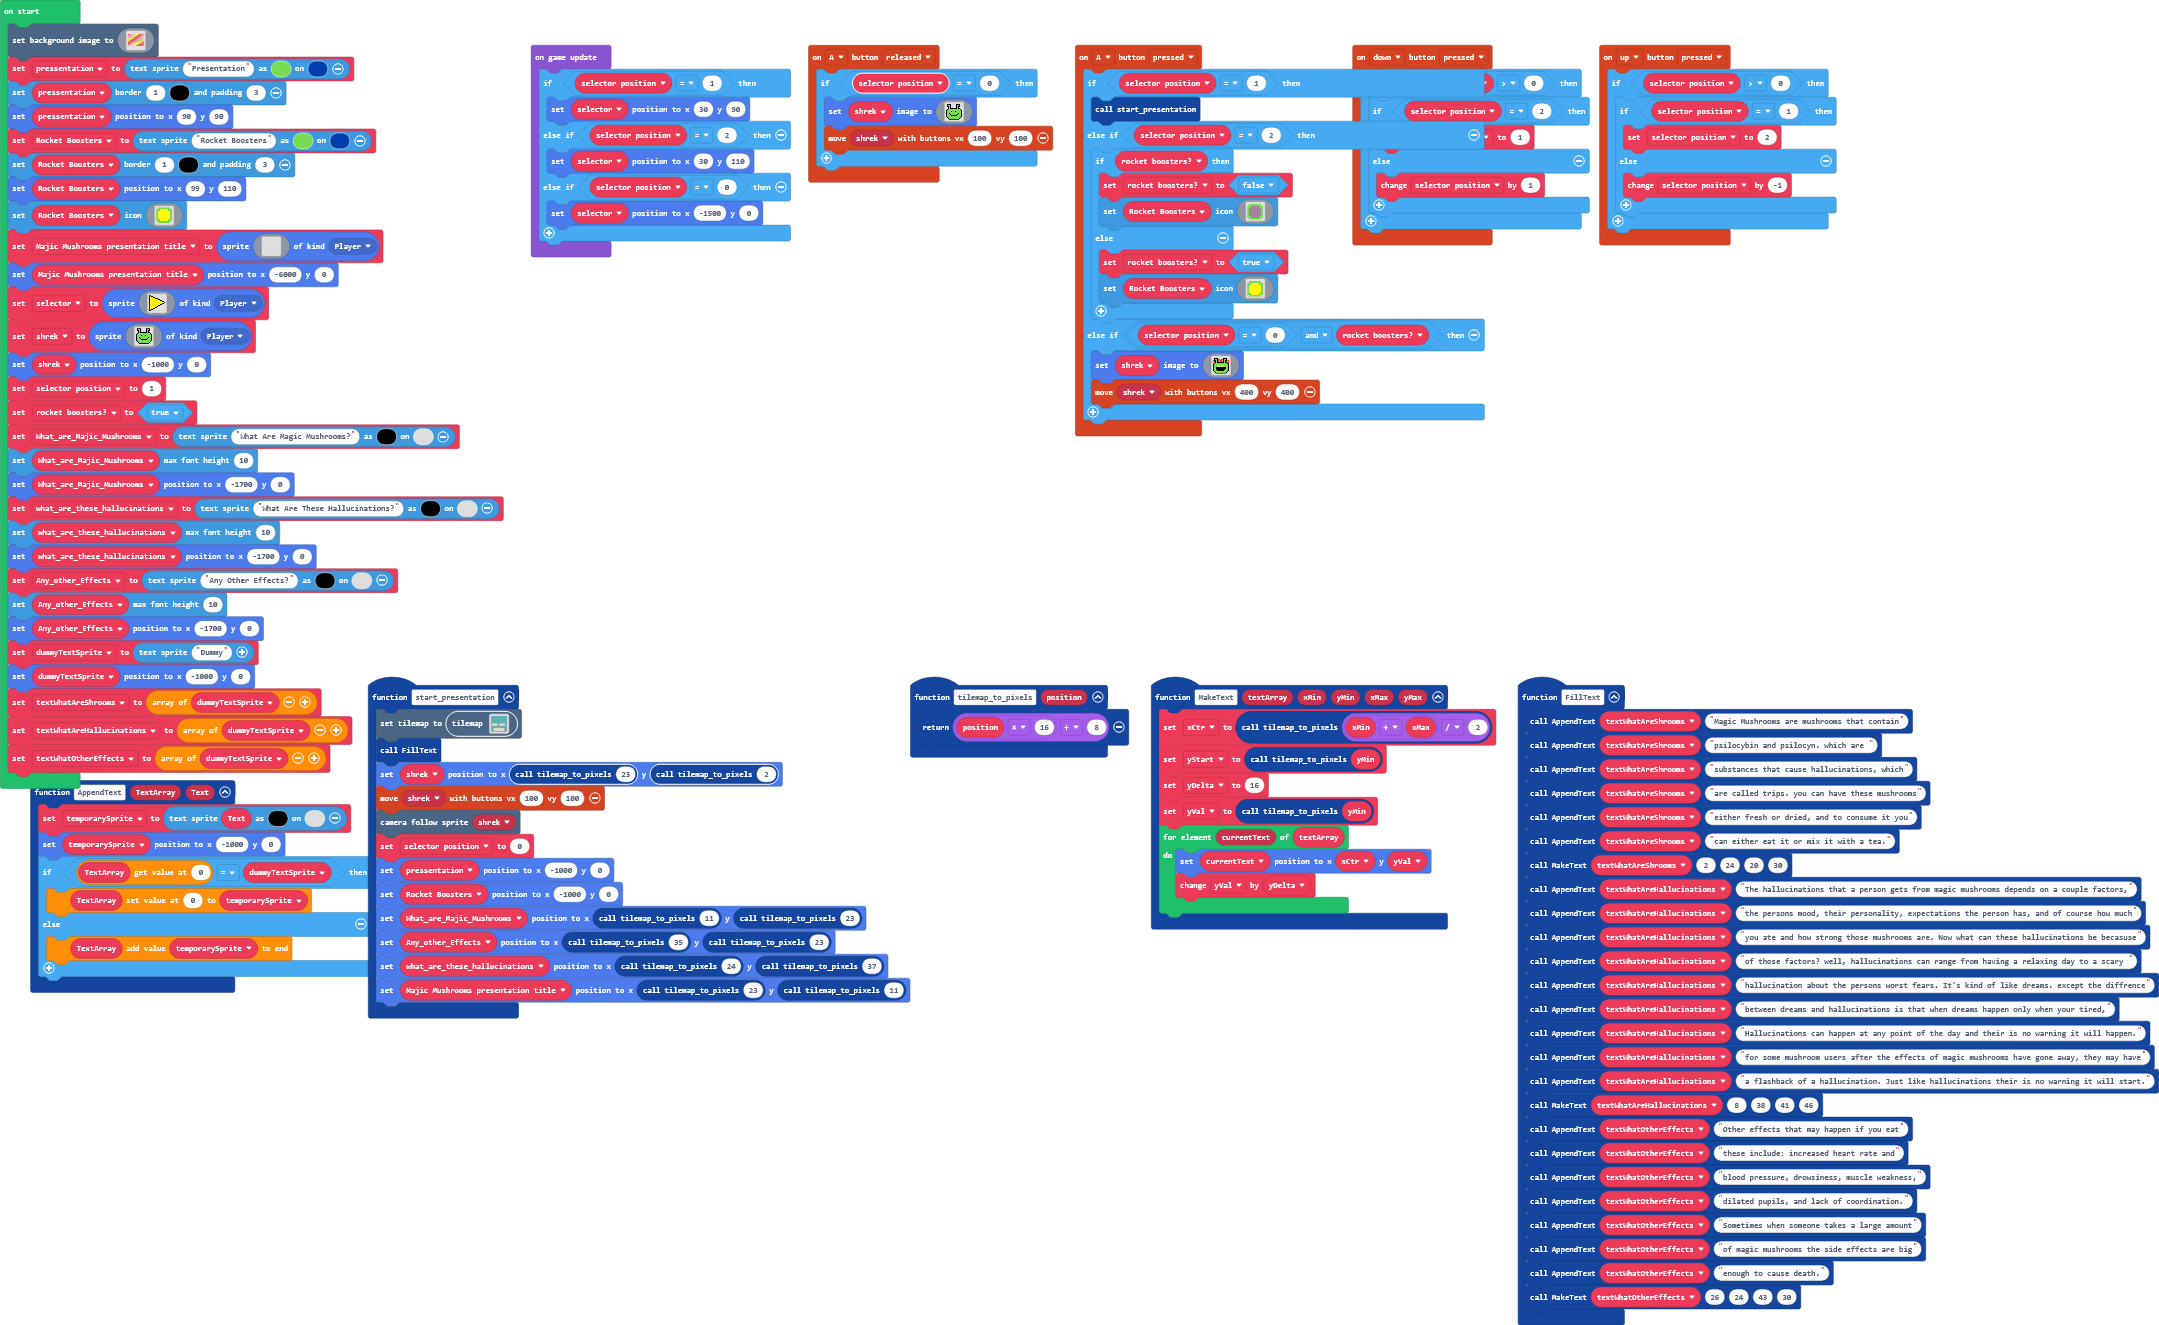
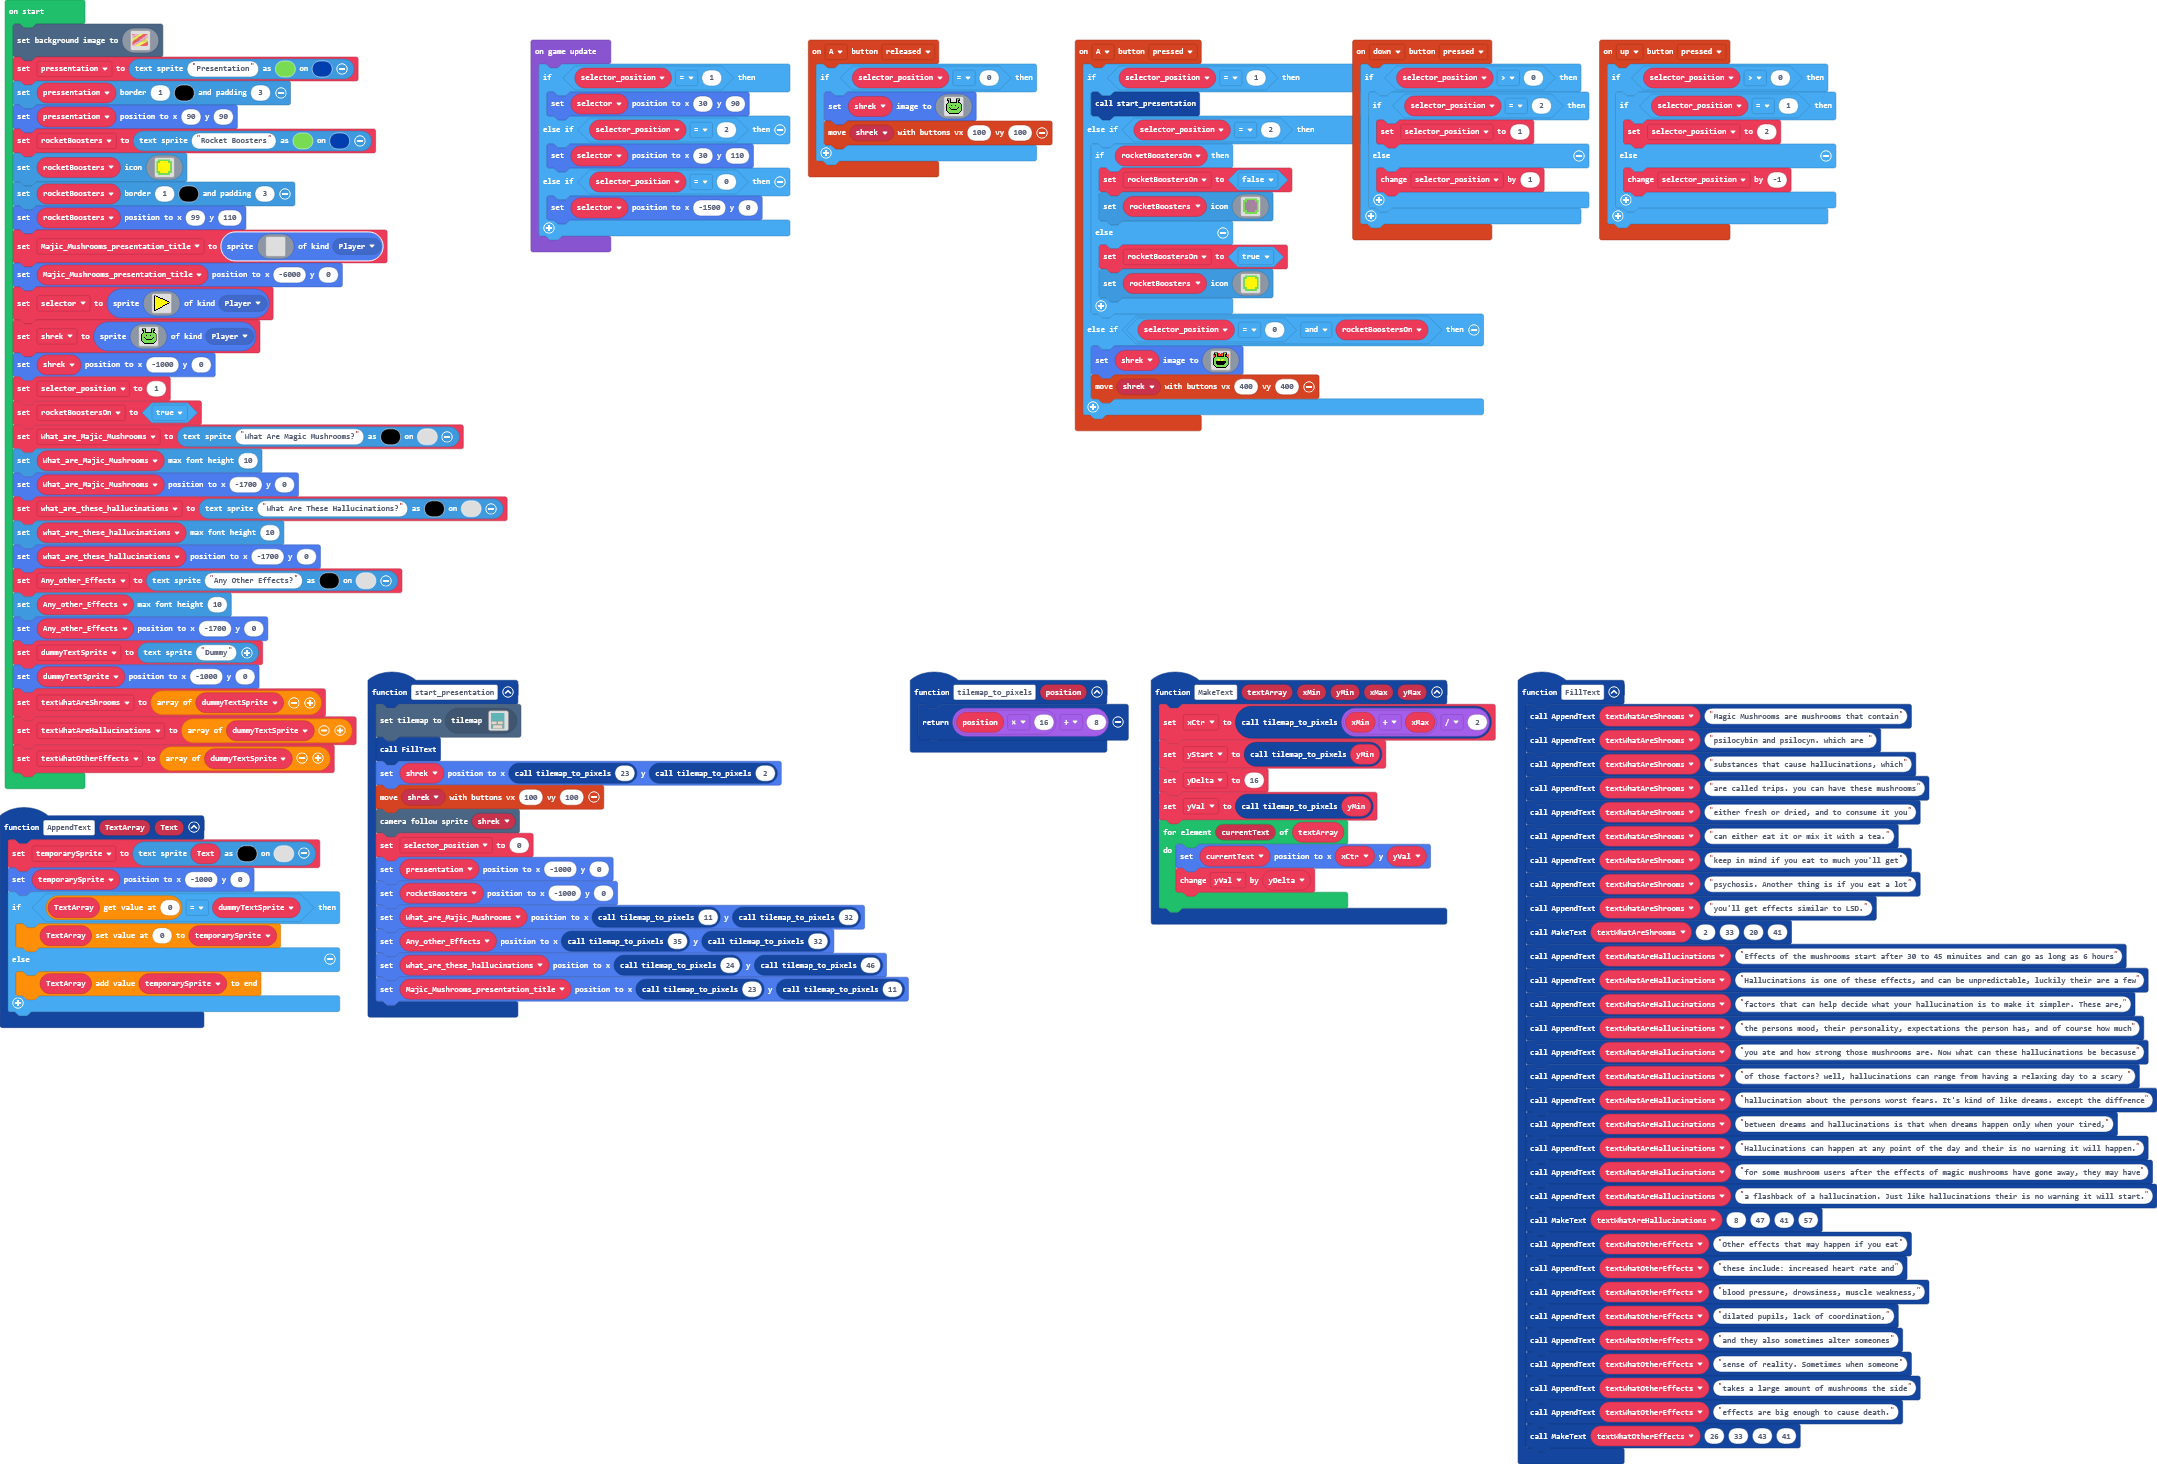
Title is too high, not sure why, ENJOY!!!

diff --git a/tilemap.g.ts b/tilemap.g.ts
@@ -90,8 +90,37 @@ namespace myTiles {
 . . . . . . . . . . . . . . . . 
 . . . . . . . . . . . . . . . . 
 `, [myTiles.transparency16], TileScale.Sixteen);
+            case "level5":
+            case "level5":return tiles.createTilemap(hex`1000100000000000000000000000000000000000000000000000000000000000000000000000000000000000000000000000000000000000000000000000000000000000000000000000000000000000000000000000000000000000000000000000000000000000000000000000000000000000000000000000000000000000000000000000000000000000000000000000000000000000000000000000000000000000000000000000000000000000000000000000000000000000000000000000000000000000000000000000000000000000000000000000000000000000000000000000000000000000000000000000000000000000000000000000000000000000`, img`
+. . . . . . . . . . . . . . . . 
+. . . . . . . . . . . . . . . . 
+. . . . . . . . . . . . . . . . 
+. . . . . . . . . . . . . . . . 
+. . . . . . . . . . . . . . . . 
+. . . . . . . . . . . . . . . . 
+. . . . . . . . . . . . . . . . 
+. . . . . . . . . . . . . . . . 
+. . . . . . . . . . . . . . . . 
+. . . . . . . . . . . . . . . . 
+. . . . . . . . . . . . . . . . 
+. . . . . . . . . . . . . . . . 
+. . . . . . . . . . . . . . . . 
+. . . . . . . . . . . . . . . . 
+. . . . . . . . . . . . . . . . 
+. . . . . . . . . . . . . . . . 
+`, [myTiles.transparency16], TileScale.Sixteen);
             case "level2":
[2 lines of base64/hex data omitted]
+..................................................
+..................................................
+..................................................
+..................................................
+..................................................
+..................................................
+..................................................
+..................................................
+..................................................
+..................................................
 ..................................................
 ..................................................
 ..................................................
@@ -143,25 +172,6 @@ namespace myTiles {
 ..................................................
 ..................................................
 `, [myTiles.transparency16,myTiles.tile2,myTiles.tile3,myTiles.tile4,myTiles.tile5,myTiles.tile6,myTiles.tile7,myTiles.tile8,myTiles.tile9,myTiles.tile10,myTiles.tile11,myTiles.tile13,myTiles.tile14,myTiles.tile15,myTiles.tile16], TileScale.Sixteen);
-            case "level5":
-            case "level5":return tiles.createTilemap(hex`1000100000000000000000000000000000000000000000000000000000000000000000000000000000000000000000000000000000000000000000000000000000000000000000000000000000000000000000000000000000000000000000000000000000000000000000000000000000000000000000000000000000000000000000000000000000000000000000000000000000000000000000000000000000000000000000000000000000000000000000000000000000000000000000000000000000000000000000000000000000000000000000000000000000000000000000000000000000000000000000000000000000000000000000000000000000000000`, img`
-. . . . . . . . . . . . . . . . 
-. . . . . . . . . . . . . . . . 
-. . . . . . . . . . . . . . . . 
-. . . . . . . . . . . . . . . . 
-. . . . . . . . . . . . . . . . 
-. . . . . . . . . . . . . . . . 
-. . . . . . . . . . . . . . . . 
-. . . . . . . . . . . . . . . . 
-. . . . . . . . . . . . . . . . 
-. . . . . . . . . . . . . . . . 
-. . . . . . . . . . . . . . . . 
-. . . . . . . . . . . . . . . . 
-. . . . . . . . . . . . . . . . 
-. . . . . . . . . . . . . . . . 
-. . . . . . . . . . . . . . . . 
-. . . . . . . . . . . . . . . . 
-`, [myTiles.transparency16], TileScale.Sixteen);
         }
         return null;
     })

diff --git a/main.ts b/main.ts
@@ -11,9 +11,9 @@ controller.A.onEvent(ControllerButtonEvent.Pressed, function () {
     if (selector_position == 1) {
         start_presentation()
     } else if (selector_position == 2) {
-        if (rocket_boosters) {
-            rocket_boosters = false
-            Rocket_Boosters.setIcon(img`
+        if (rocketBoostersOn) {
+            rocketBoostersOn = false
+            rocketBoosters.setIcon(img`
                 . 7 7 7 7 7 7 . 
                 7 7 b b b b 7 7 
                 7 b b b b b b 7 
@@ -24,8 +24,8 @@ controller.A.onEvent(ControllerButtonEvent.Pressed, function () {
                 . 7 7 7 7 7 7 . 
                 `)
         } else {
-            rocket_boosters = true
-            Rocket_Boosters.setIcon(img`
+            rocketBoostersOn = true
+            rocketBoosters.setIcon(img`
                 . 7 7 7 7 7 7 . 
                 7 7 5 5 5 5 7 7 
                 7 5 5 5 5 5 5 7 
@@ -36,7 +36,7 @@ controller.A.onEvent(ControllerButtonEvent.Pressed, function () {
                 . 7 7 7 7 7 7 . 
                 `)
         }
-    } else if (selector_position == 0 && rocket_boosters) {
+    } else if (selector_position == 0 && rocketBoostersOn) {
         shrek.setImage(img`
             . f f f f . . . . . f f f f . . 
             . f 7 7 f 2 2 . 2 2 f 7 7 f . . 
@@ -66,10 +66,10 @@ function start_presentation () {
     scene.cameraFollowSprite(shrek)
     selector_position = 0
     pressentation.setPosition(-1000, 0)
-    Rocket_Boosters.setPosition(-1000, 0)
-    What_are_Majic_Mushrooms.setPosition(tilemap_to_pixels(11), tilemap_to_pixels(23))
-    Any_other_Effects.setPosition(tilemap_to_pixels(35), tilemap_to_pixels(23))
-    what_are_these_hallucinations.setPosition(tilemap_to_pixels(24), tilemap_to_pixels(37))
+    rocketBoosters.setPosition(-1000, 0)
+    What_are_Majic_Mushrooms.setPosition(tilemap_to_pixels(11), tilemap_to_pixels(32))
+    Any_other_Effects.setPosition(tilemap_to_pixels(35), tilemap_to_pixels(32))
+    what_are_these_hallucinations.setPosition(tilemap_to_pixels(24), tilemap_to_pixels(46))
     Majic_Mushrooms_presentation_title.setPosition(tilemap_to_pixels(23), tilemap_to_pixels(11))
 }
 function AppendText (TextArray: TextSprite[], Text: string) {
@@ -88,8 +88,13 @@ function FillText () {
     AppendText(textWhatAreShrooms, "are called trips. you can have these mushrooms")
     AppendText(textWhatAreShrooms, "either fresh or dried, and to consume it you")
     AppendText(textWhatAreShrooms, "can either eat it or mix it with a tea.")
-    MakeText(textWhatAreShrooms, 2, 24, 20, 30)
-    AppendText(textWhatAreHallucinations, "The hallucinations that a person gets from magic mushrooms depends on a couple factors,")
+    AppendText(textWhatAreShrooms, "keep in mind if you eat to much you'll get")
+    AppendText(textWhatAreShrooms, "psychosis. Another thing is if you eat a lot")
+    AppendText(textWhatAreShrooms, "you'll get effects similar to LSD.")
+    MakeText(textWhatAreShrooms, 2, 33, 20, 41)
+    AppendText(textWhatAreHallucinations, "Effects of the mushrooms start after 30 to 45 minuites and can go as long as 6 hours")
+    AppendText(textWhatAreHallucinations, "Hallucinations is one of these effects, and can be unpredictable, luckily their are a few")
+    AppendText(textWhatAreHallucinations, "factors that can help decide what your hallucination is to make it simpler. These are,")
     AppendText(textWhatAreHallucinations, "the persons mood, their personality, expectations the person has, and of course how much")
     AppendText(textWhatAreHallucinations, "you ate and how strong those mushrooms are. Now what can these hallucinations be becasuse")
     AppendText(textWhatAreHallucinations, "of those factors? well, hallucinations can range from having a relaxing day to a scary ")
@@ -98,15 +103,16 @@ function FillText () {
     AppendText(textWhatAreHallucinations, "Hallucinations can happen at any point of the day and their is no warning it will happen.")
     AppendText(textWhatAreHallucinations, "for some mushroom users after the effects of magic mushrooms have gone away, they may have")
     AppendText(textWhatAreHallucinations, "a flashback of a hallucination. Just like hallucinations their is no warning it will start.")
-    MakeText(textWhatAreHallucinations, 8, 38, 41, 46)
+    MakeText(textWhatAreHallucinations, 8, 47, 41, 57)
     AppendText(textWhatOtherEffects, "Other effects that may happen if you eat")
     AppendText(textWhatOtherEffects, "these include: increased heart rate and")
     AppendText(textWhatOtherEffects, "blood pressure, drowsiness, muscle weakness,")
-    AppendText(textWhatOtherEffects, "dilated pupils, and lack of coordination.")
-    AppendText(textWhatOtherEffects, "Sometimes when someone takes a large amount")
-    AppendText(textWhatOtherEffects, "of magic mushrooms the side effects are big")
-    AppendText(textWhatOtherEffects, "enough to cause death.")
-    MakeText(textWhatOtherEffects, 26, 24, 43, 30)
+    AppendText(textWhatOtherEffects, "dilated pupils, lack of coordination,")
+    AppendText(textWhatOtherEffects, "and they also sometimes alter someones")
+    AppendText(textWhatOtherEffects, "sense of reality. Sometimes when someone")
+    AppendText(textWhatOtherEffects, "takes a large amount of mushrooms the side")
+    AppendText(textWhatOtherEffects, "effects are big enough to cause death.")
+    MakeText(textWhatOtherEffects, 26, 33, 43, 41)
 }
 controller.A.onEvent(ControllerButtonEvent.Released, function () {
     if (selector_position == 0) {
@@ -165,11 +171,11 @@ let dummyTextSprite: TextSprite = null
 let Any_other_Effects: TextSprite = null
 let what_are_these_hallucinations: TextSprite = null
 let What_are_Majic_Mushrooms: TextSprite = null
-let rocket_boosters = false
+let rocketBoostersOn = false
 let selector_position = 0
 let shrek: Sprite = null
 let Majic_Mushrooms_presentation_title: Sprite = null
-let Rocket_Boosters: TextSprite = null
+let rocketBoosters: TextSprite = null
 let pressentation: TextSprite = null
 scene.setBackgroundImage(img`
[1 lines of base64/hex data omitted]
@@ -296,10 +302,8 @@ scene.setBackgroundImage(img`
 pressentation = textsprite.create("Presentation", 8, 7)
 pressentation.setBorder(1, 15, 3)
 pressentation.setPosition(90, 90)
-Rocket_Boosters = textsprite.create("Rocket Boosters", 8, 7)
-Rocket_Boosters.setBorder(1, 15, 3)
-Rocket_Boosters.setPosition(99, 110)
-Rocket_Boosters.setIcon(img`
+rocketBoosters = textsprite.create("Rocket Boosters", 8, 7)
+rocketBoosters.setIcon(img`
     . 7 7 7 7 7 7 . 
     7 7 5 5 5 5 7 7 
     7 5 5 5 5 5 5 7 
@@ -309,6 +313,8 @@ Rocket_Boosters.setIcon(img`
     7 7 5 5 5 5 7 7 
     . 7 7 7 7 7 7 . 
     `)
+rocketBoosters.setBorder(1, 15, 3)
+rocketBoosters.setPosition(99, 110)
 Majic_Mushrooms_presentation_title = sprites.create(img`
     .......................................................................................................................................................................................................................................................................................................................................................................................
     .......................................................................................................................................................................................................................................................................................................................................................................................
@@ -625,7 +631,7 @@ shrek = sprites.create(img`
     `, SpriteKind.Player)
 shrek.setPosition(-1000, 0)
 selector_position = 1
-rocket_boosters = true
+rocketBoostersOn = true
 What_are_Majic_Mushrooms = textsprite.create("What Are Magic Mushrooms?", 0, 15)
 What_are_Majic_Mushrooms.setMaxFontHeight(10)
 What_are_Majic_Mushrooms.setPosition(-1700, 0)
